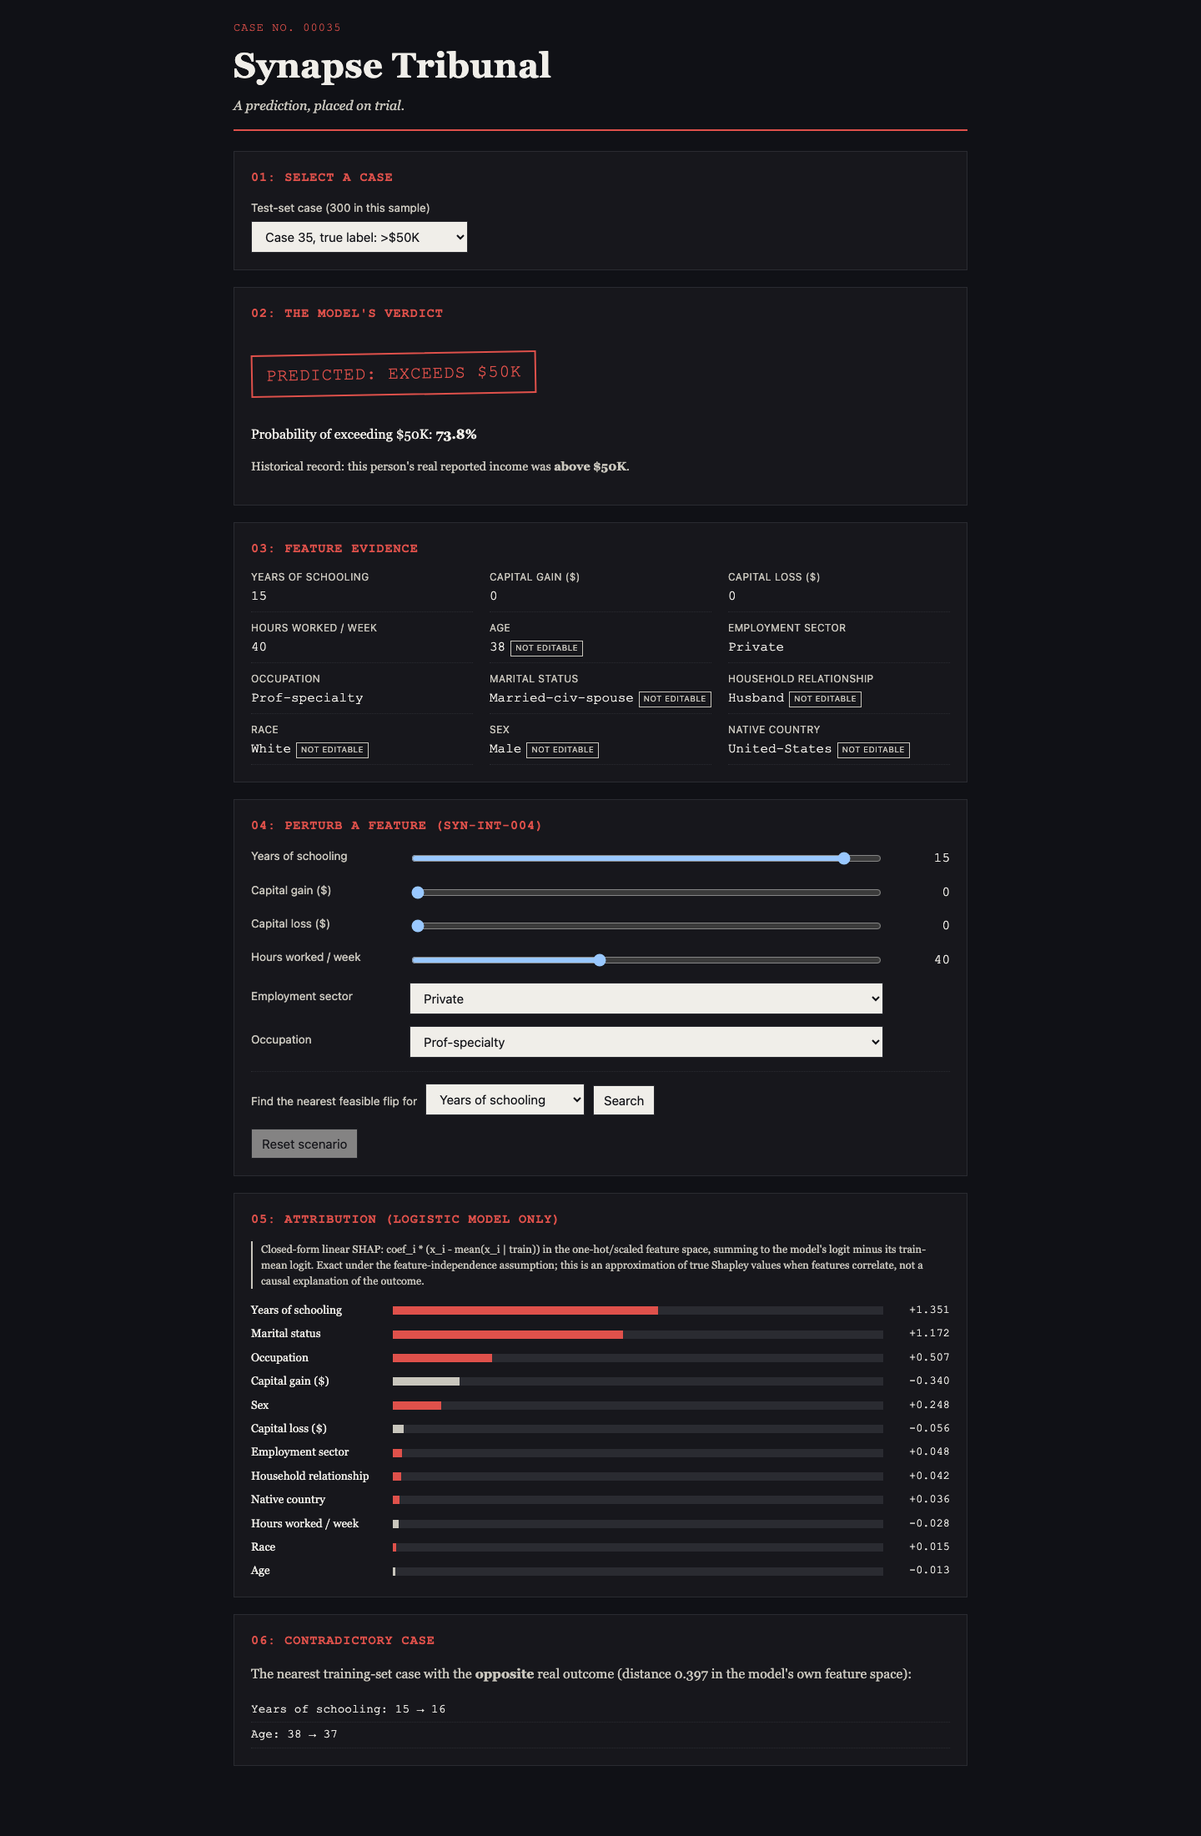
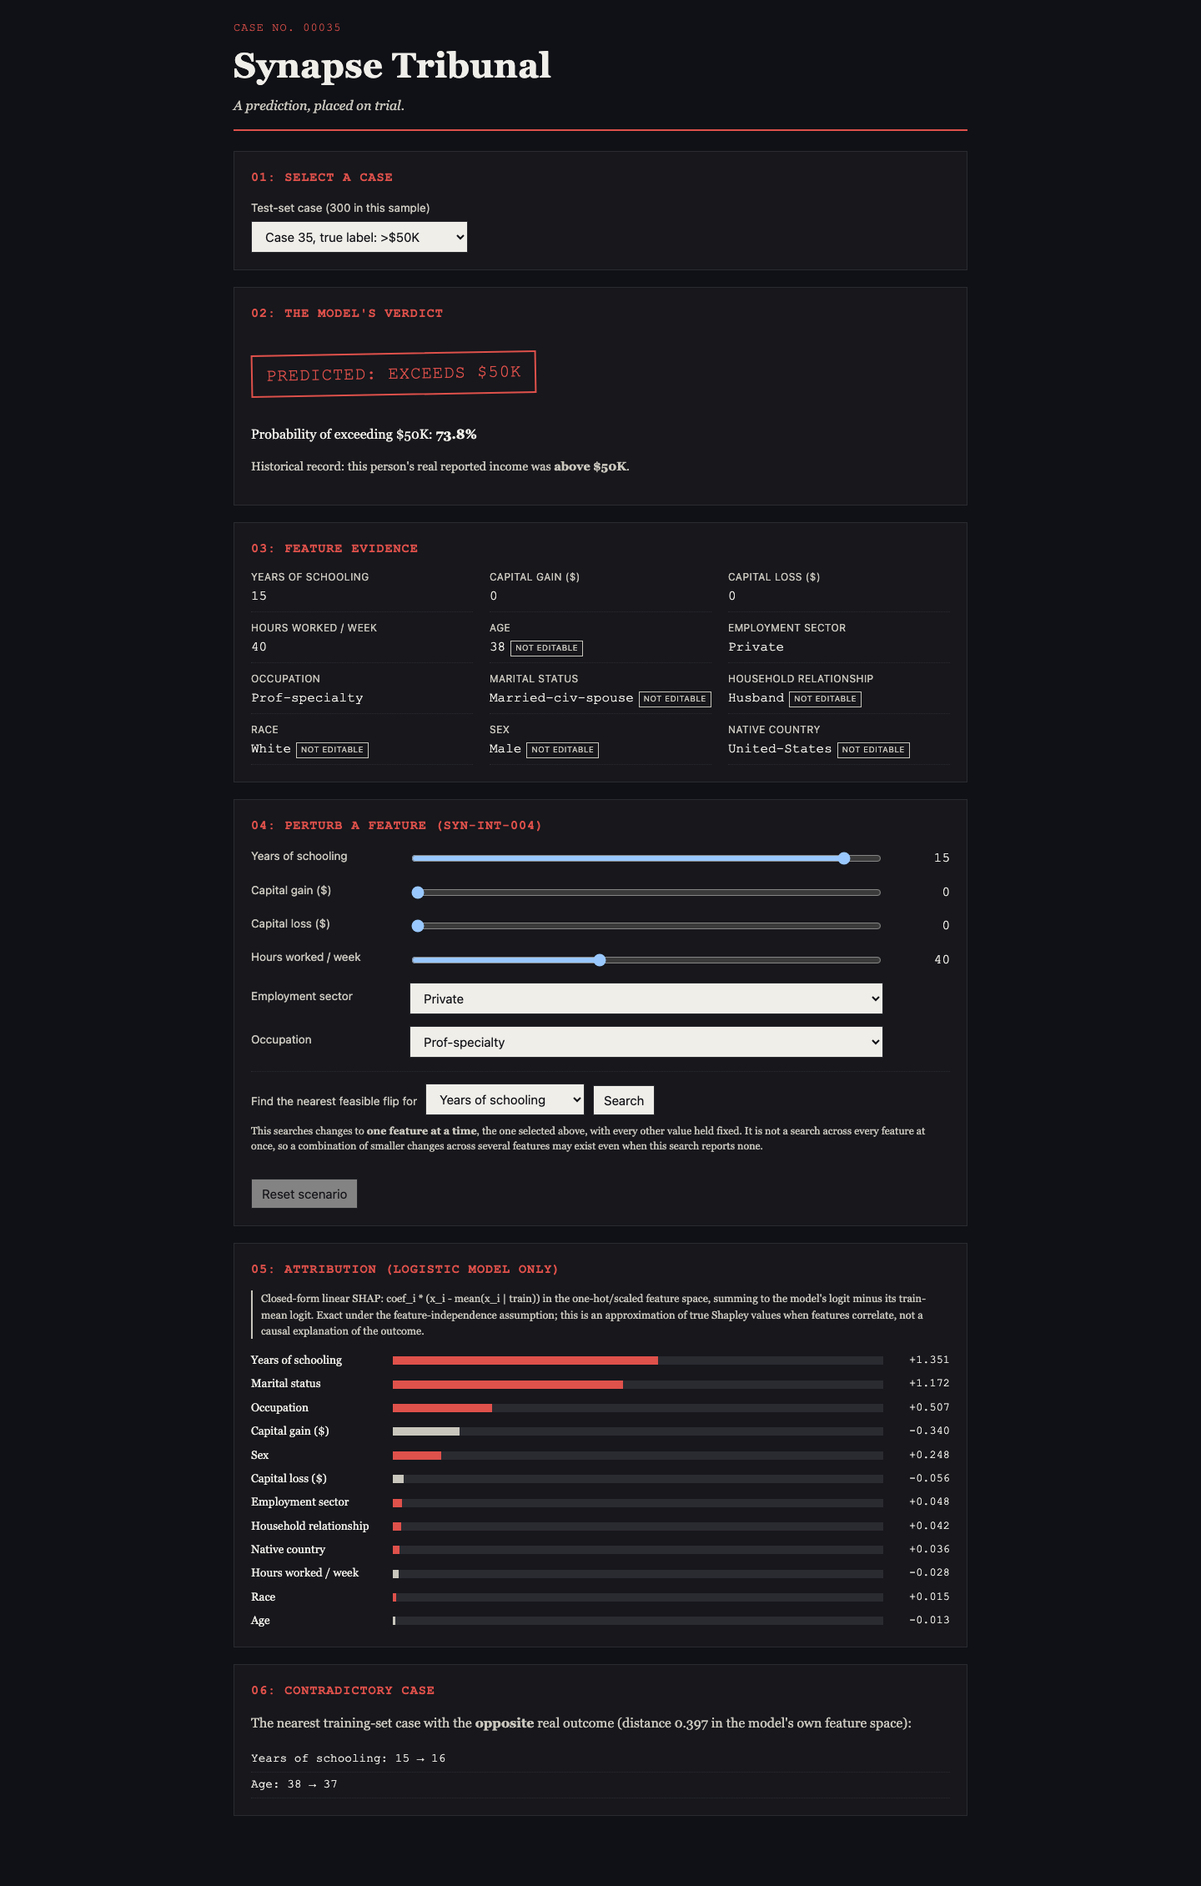
Respond to independent review: fix all P1s, cheap P2s
An independent worktree-isolated reviewer (no access to this session's
notes) found 0 P0s and 3 P1s in the vertical slice. All fixed:

- The counterfactual search's single-feature scope was only ever
  disclosed in code comments, never in the UI itself -- a user could
  read 'Feasible: changing X to Y would flip the decision' as a full
  multi-feature counterfactual. Added a visible scope note next to the
  search control and rewrote the result copy ('Changing only X... with
  every other feature held fixed') to say this inline, where it
  actually matters.
- search_categorical picked the candidate FARTHEST from the threshold
  (most decisive flip); search_numeric bisects to the value CLOSEST to
  it (minimal change). SPEC_LOCK.md describes the whole feature as
  'the minimal-change path,' so the categorical path silently
  contradicted its own spec. Fixed to match numeric's semantics in
  both research/models/counterfactual.py and src/engine/counterfactual.ts,
  with a new regression test in each (Python and TS) that brute-forces
  every candidate category independently of the implementation under
  test and asserts the minimal one is returned, not just a feasible one.
- SYN-INT-001 (select case) was fully built but marked 'unstarted' in
  REQUIREMENTS.yaml with zero test coverage -- the reviewer noted a
  future agent trusting that ledger could waste time re-verifying
  working code while the actually undertested path (case switching)
[…]

diff --git a/src/scenes/Tribunal.test.tsx b/src/scenes/Tribunal.test.tsx
@@ -59,7 +59,7 @@ describe('Tribunal scene (SYN-INT-004 vertical slice)', () => {
     })
     const result = document.querySelector('.flip-result')
     expect(result).toBeTruthy()
-    expect(result!.textContent).toMatch(/feasible|infeasible/i)
+    expect(result!.textContent).toMatch(/would flip the decision|no single-feature flip found/i)
   })
 
   it('rejects perturbing an immutable feature from the UI (none rendered for them)', async () => {
@@ -73,5 +73,31 @@ describe('Tribunal scene (SYN-INT-004 vertical slice)', () => {
     render(<Tribunal />)
     await waitFor(() => expect(screen.getByTestId('tribunal-scene')).toBeInTheDocument())
     expect(screen.getByText(/contradictory case/i)).toBeInTheDocument()
+  })
+
+  it('switching the selected case recomputes the panel and clears any active perturbation (SYN-INT-001)', async () => {
+    render(<Tribunal />)
+    await waitFor(() => expect(screen.getByTestId('tribunal-scene')).toBeInTheDocument())
+
+    const caseNumberBefore = screen.getByText(/CASE No\./i).textContent
+    const probabilityBefore = screen.getByText(/Probability of exceeding/i).textContent
+
+    const slider = screen.getByLabelText(/hours worked/i)
+    fireEvent.change(slider, { target: { value: '5' } })
+    await waitFor(() => {
+      expect(screen.getByText(/recomputed live after your edit/i)).toBeInTheDocument()
+    })
+
+    const select = screen.getByLabelText(/test-set case/i) as HTMLSelectElement
+    const otherOption = Array.from(select.options).find((o) => o.value !== select.value)!
+    fireEvent.change(select, { target: { value: otherOption.value } })
+
+    await waitFor(() => {
+      expect(screen.getByText(/CASE No\./i).textContent).not.toBe(caseNumberBefore)
+    })
+    // Switching cases must clear the perturbation from the previous case, not carry
+    // a stale "recomputed live" state into a fresh case selection.
+    expect(screen.queryByText(/recomputed live after your edit/i)).not.toBeInTheDocument()
+    expect(screen.getByText(/Probability of exceeding/i).textContent).not.toBe(probabilityBefore)
   })
 })

diff --git a/src/engine/counterfactual.test.ts b/src/engine/counterfactual.test.ts
@@ -54,6 +54,35 @@ describe('findFeasibleFlip: categorical actionable feature', () => {
       expect(manifest.categorical_categories['workclass']).toContain(result.to_value)
     }
   })
+
+  it('returns the minimal-change flip, not the most decisive one (regression test)', () => {
+    // An earlier version picked the candidate FARTHEST from the threshold instead of
+    // closest, silently diverging from SPEC_LOCK.md's "minimal-change path" claim.
+    // Brute-forces independently of findFeasibleFlip's own implementation.
+    const threshold = 0.5
+    for (const row of fixture.rows.slice(0, 40)) {
+      for (const feature of ['workclass', 'occupation']) {
+        const currentPred = logisticProba(manifest, row.raw) >= threshold
+        const flipping: { cat: string; proba: number }[] = []
+        for (const cat of manifest.categorical_categories[feature]) {
+          if (cat === row.raw[feature]) continue
+          const trial = { ...row.raw, [feature]: cat }
+          const p = logisticProba(manifest, trial)
+          if ((p >= threshold) !== currentPred) flipping.push({ cat, proba: p })
+        }
+        const result = findFeasibleFlip(manifest, row.raw, feature, threshold)
+        if (flipping.length === 0) {
+          expect(result.feasible).toBe(false)
+          continue
+        }
+        const expectedBest = flipping.reduce((a, b) =>
+          Math.abs(a.proba - threshold) <= Math.abs(b.proba - threshold) ? a : b,
+        )
+        expect(result.feasible).toBe(true)
+        if (result.feasible) expect(result.to_value).toBe(expectedBest.cat)
+      }
+    }
+  })
 })
 
 describe('findFeasibleFlip: immutable feature rejection', () => {

diff --git a/src/scenes/Tribunal.tsx b/src/scenes/Tribunal.tsx
@@ -280,19 +280,26 @@ export default function Tribunal() {
             Search
           </button>
         </div>
+        <p className="flip-scope-note">
+          This searches changes to <strong>one feature at a time</strong>, the one selected above,
+          with every other value held fixed. It is not a search across every feature at once, so a
+          combination of smaller changes across several features may exist even when this search
+          reports none.
+        </p>
         {flipResult && (
           <p className="flip-result" role="status">
             {flipResult.feasible ? (
               <>
-                Feasible: changing {featureLabel(flipResult.feature)} to{' '}
-                <strong>{formatValue(flipResult.to_value)}</strong> would flip the decision (resulting
-                probability {formatProbability(flipResult.resulting_proba)}).{' '}
+                Changing only {featureLabel(flipResult.feature)} to{' '}
+                <strong>{formatValue(flipResult.to_value)}</strong>, with every other feature held
+                fixed, would flip the decision (resulting probability{' '}
+                {formatProbability(flipResult.resulting_proba)}).{' '}
                 <button type="button" onClick={handleApplyFlip}>
                   Apply this flip
                 </button>
               </>
             ) : (
-              <>Infeasible: {flipResult.reason}</>
+              <>No single-feature flip found: {flipResult.reason}</>
             )}
           </p>
         )}

diff --git a/e2e/tribunal.spec.ts b/e2e/tribunal.spec.ts
@@ -54,6 +54,19 @@ test("vertical slice: case browser, perturbation, attribution, flip, reset", asy
   await page.screenshot({ path: path.join(SCREENSHOTS_DIR, "tribunal-desktop.png"), fullPage: true });
 });
 
+test("switching the selected case (SYN-INT-001) recomputes and clears perturbation", async ({ page }) => {
+  await page.goto("/");
+  await expect(page.getByTestId("tribunal-scene")).toBeVisible();
+
+  const caseNumberBefore = await page.locator(".dossier-case-number").textContent();
+  const select = page.getByLabel(/test-set case/i);
+  const options = await select.locator("option").all();
+  const otherValue = await options[1].getAttribute("value");
+  await select.selectOption(otherValue!);
+
+  await expect(page.locator(".dossier-case-number")).not.toHaveText(caseNumberBefore ?? "");
+});
+
 test("keyboard operability: perturb and search without a mouse", async ({ page }) => {
   await page.goto("/");
   await expect(page.getByTestId("tribunal-scene")).toBeVisible();

diff --git a/src/engine/counterfactual.ts b/src/engine/counterfactual.ts
@@ -102,8 +102,11 @@ function searchCategorical(
       reason: 'no observed category for this feature flips the decision',
     }
   }
+  // Minimal change: the candidate CLOSEST to the threshold, matching searchNumeric's
+  // bisection-to-the-boundary semantics (an earlier version picked the farthest/most-
+  // decisive candidate, silently diverging from SPEC_LOCK.md's "minimal-change path").
   const best = candidates.reduce((a, b) =>
-    Math.abs(a.resulting_proba - threshold) >= Math.abs(b.resulting_proba - threshold) ? a : b,
+    Math.abs(a.resulting_proba - threshold) <= Math.abs(b.resulting_proba - threshold) ? a : b,
   )
   return {
     feasible: true,

diff --git a/src/engine/useFixtures.ts b/src/engine/useFixtures.ts
@@ -23,6 +23,11 @@ export function useFixtures(): FixturesState & { retry: () => void } {
 
   useEffect(() => {
     let cancelled = false
+    // This IS synchronizing with an external system (fetch), the canonical case the
+    // rule's own message carves out as fine. Suppressed rather than worked around so
+    // future fixture-loading hooks aren't tempted to copy an awkward workaround instead
+    // of this same legitimate pattern.
+    // oxlint-disable-next-line react/set-state-in-effect
     setState({ status: 'loading' })
     const base = import.meta.env.BASE_URL
     Promise.all([

diff --git a/src/scenes/Tribunal.css b/src/scenes/Tribunal.css
@@ -198,6 +198,11 @@ input:focus-visible {
   border-top: 1px dotted var(--ink-line);
   padding-top: 14px;
 }
+.flip-scope-note {
+  font-size: 0.78rem;
+  color: var(--paper-dim);
+  margin-top: 10px;
+}
 .flip-result {
   margin-top: 12px;
   padding: 10px;

diff --git a/tests/unit/test_reference.py b/tests/unit/test_reference.py
@@ -98,6 +98,37 @@ def test_counterfactual_categorical_infeasible_reports_reason_not_crash():
         assert "reason" in result
 
 
+def test_counterfactual_categorical_returns_minimal_not_most_decisive_flip():
+    """Regression test for a real bug an independent review caught: the categorical
+    search once picked the candidate FARTHEST from the threshold (the most decisive
+    flip) instead of the closest (the minimal change), silently diverging from
+    SPEC_LOCK.md's own 'minimal-change path' description. Brute-forces every observed
+    category independently of find_feasible_flip's own implementation."""
+    for row in SAMPLE_FIXTURE["rows"][:40]:
+        raw = row["raw"]
+        for feature in ("workclass", "occupation"):
+            threshold = 0.5
+            current_pred = logistic_proba(raw) >= threshold
+            flipping = []
+            for cat in MANIFEST["categorical_categories"][feature]:
+                if cat == raw[feature]:
+                    continue
+                trial = {**raw, feature: cat}
+                p = logistic_proba(trial)
+                if (p >= threshold) != current_pred:
+                    flipping.append((cat, p))
+            result = find_feasible_flip(raw, feature, threshold=threshold)
+            if not flipping:
+                assert not result["feasible"]
+                continue
+            expected_best = min(flipping, key=lambda cp: abs(cp[1] - threshold))
+            assert result["feasible"]
+            assert result["to_value"] == expected_best[0], (
+                f"{feature}: expected minimal-change category {expected_best[0]!r}, "
+                f"got {result['to_value']!r}"
+            )
+
+
 def test_scaler_mean_is_train_only_not_full_dataset():
     """Leakage guard: the manifest's StandardScaler mean must equal the TRAIN split's own
     mean, not a mean computed over train+test (which would leak test distribution info

diff --git a/research/models/train.py b/research/models/train.py
@@ -19,7 +19,6 @@ from pathlib import Path
 
 import numpy as np
 import pandas as pd
-from sklearn.calibration import calibration_curve
 from sklearn.compose import ColumnTransformer
 from sklearn.ensemble import HistGradientBoostingClassifier
 from sklearn.neighbors import NearestNeighbors
@@ -160,8 +159,11 @@ def main() -> None:
     }
 
     # Calibration cohorts (SYN-INT-005): real bins over the real test set, both models.
+    # Hand-rolled rather than sklearn's calibration_curve because the UI needs each bin's
+    # raw n/mean/observed_rate (not just the curve points calibration_curve returns), and
+    # calibration_curve silently drops empty bins -- the UI needs to render those as "no
+    # test cases fell in this probability range" (INTERACTIONS.yaml) rather than skip them.
     def calib(proba: np.ndarray) -> list[dict]:
-        frac_pos, mean_pred = calibration_curve(y_test, proba, n_bins=10, strategy="uniform")
         out = []
         edges = np.linspace(0, 1, 11)
         for i in range(10):

diff --git a/research/models/counterfactual.py b/research/models/counterfactual.py
@@ -78,7 +78,12 @@ def search_categorical(raw: dict, feature: str, threshold: float) -> dict:
     if not candidates:
         return {"feasible": False, "feature": feature, "reason":
                 "no observed category for this feature flips the decision"}
-    best = max(candidates, key=lambda c: abs(c["resulting_proba"] - threshold))
+    # Minimal change: the candidate whose resulting probability is CLOSEST to the
+    # threshold (just barely flips it), matching search_numeric's bisection-to-the-
+    # boundary semantics. An earlier version picked the farthest/most-decisive
+    # candidate instead, silently diverging from SPEC_LOCK.md's "minimal-change path"
+    # description; fixed, not just relabeled.
+    best = min(candidates, key=lambda c: abs(c["resulting_proba"] - threshold))
     return {"feasible": True, "feature": feature, "from_value": current,
             "to_value": best["category"], "resulting_proba": best["resulting_proba"]}
 

diff --git a/docs/LIMITATIONS.md b/docs/LIMITATIONS.md
@@ -1,0 +1,52 @@
+# Limitations
+
+Honest, current-state record of what this build does not do, referenced from code comments
+(`src/engine/counterfactual.ts`) and specs (`specifications/INTERACTIONS.yaml`) rather than left
+as a dangling citation. Updated as the build progresses; this is not a final release document
+(see `verification/` once SYN-RELEASE-001 closes for that).
+
+## Analytical
+
+- **Counterfactual search is single-feature only.** `findFeasibleFlip` varies exactly one
+  actionable feature, holding every other value fixed, and reports "no feasible flip" if that
+  one feature alone cannot cross the threshold within its observed range/categories. A real
+  multi-feature nearest-counterfactual (the combination of several smaller changes) may exist
+  even when the single-feature search finds none. This scope is stated in the UI itself
+  (`.flip-scope-note` in the Tribunal scene), not only in code comments.
+- **No live evaluator for the boosting model.** `HistGradientBoostingClassifier`'s tree
+  internals are not public sklearn API the way logistic regression's coefficients are, so no
+  TypeScript port exists for it. Perturbation (SYN-INT-004) is only ever evaluated against the
+  logistic model; switching models clears any active perturbation rather than showing a stale
+  or fabricated boosting-model result.
+- **Attribution is linear-SHAP, exact only under feature independence.** `attribution_method`
+  in `model_manifest.json` states this; correlated features (e.g. education and occupation)
+  make it an approximation, not an exact Shapley decomposition, in that case.
+- **22% of the test set exactly duplicates a train row** once the `fnlwgt` sampling-weight
+  column is dropped (see `model_manifest.json.leakage_check`). Reported test AUROC/Brier are
+  somewhat optimistic for that subset. Adult's AUROC is well-established at 0.90-0.93 in the
+  literature independent of this specific split, so the effect is judged unlikely to be large;
+  a grouped train/test split that removes the duplicates is the honest fix and is recorded here
+  as future work, not applied.
+- **1994 US Census data.** Income thresholds and occupational categories reflect that period's
+  economy, not current ones.
+
+## Interface (current build: vertical slice only)
+
+- Only SYN-INT-001 (select case) and SYN-INT-004 (perturb + single-feature flip search) are
+  implemented. SYN-INT-002/003/005/006 do not exist yet.
+- Only one scene exists (the flagship "Tribunal" interaction); none of the six narrative
+  chapters or the cinematic intro are built yet.
+- **Mobile is a single-column reflow of the desktop layout**, not yet the deliberately distinct
+  touch-first composition the Atlas stack guidance calls for (bottom-sheet controls, reframed
+  camera/spatial treatment). Functional and legible, verified by real screenshot, but not yet a
+  separately art-directed mobile composition. Scoped to the full responsive-design pass.
+- No cross-browser testing yet (Chromium only via Playwright's default project).
+
+## Process
+
+- No automated `release:check` auditor or `execution/tasks.json` ledger exists yet (the V2
+  directive's full machine-readable controller). `specifications/REQUIREMENTS.yaml` is
+  maintained by hand; an independent review already caught one row (SYN-INT-001) that was
+  incorrectly marked `unstarted` despite being implemented, so treat this file's status as
+  indicative, not infallible, until the full suite closes and a release auditor exists to check
+  it mechanically.

diff --git a/README.md b/README.md
@@ -1,32 +1,42 @@
-# React + TypeScript + Vite
+# Synapse Tribunal
 
-This template provides a minimal setup to get React working in Vite with HMR and some Oxlint rules.
+A prediction, placed on trial: real classifier attribution, counterfactual search, and
+contradictory-case evidence, computed live in the browser against a model trained offline.
 
-Currently, two official plugins are available:
+Project 03 of the Creative Engineering Atlas. See `specifications/SPEC_LOCK.md` for the
+authoritative spec decisions, `specifications/REQUIREMENTS.yaml` for current build status, and
+`docs/LIMITATIONS.md` for what this build does and does not do right now.
 
-- [@vitejs/plugin-react](https://github.com/vitejs/vite-plugin-react/blob/main/packages/plugin-react) uses [Oxc](https://oxc.rs)
-- [@vitejs/plugin-react-swc](https://github.com/vitejs/vite-plugin-react/blob/main/packages/plugin-react-swc) uses [SWC](https://swc.rs/)
+**Current state:** one feature slice built and independently reviewed (SYN-INT-001 select case,
+SYN-INT-004 perturb + single-feature counterfactual search). The remaining four interactions,
+six narrative chapters, and cinematic intro are not yet built.
 
-## React Compiler
+## Run it
 
-The React Compiler is not enabled on this template because of its impact on dev & build performances. To add it, see [this documentation](https://react.dev/learn/react-compiler/installation).
-
-## Expanding the Oxlint configuration
-
-If you are developing a production application, we recommend enabling type-aware lint rules by installing `oxlint-tsgolint` and editing `.oxlintrc.json`:
-
-```json
-{
-  "$schema": "./node_modules/oxlint/configuration_schema.json",
-  "plugins": ["react", "typescript", "oxc"],
-  "options": {
-    "typeAware": true
-  },
-  "rules": {
-    "react/rules-of-hooks": "error",
-    "react/only-export-components": ["warn", { "allowConstantExport": true }]
-  }
-}
+```bash
+npm install
+npm run dev          # local dev server
+npm run build        # tsc -b && vite build
+npm run preview       # serve the production build locally
+npm run test          # vitest
+npm run test:e2e      # playwright, against the production build
 ```
 
-See the [Oxlint rules documentation](https://oxc.rs/docs/guide/usage/linter/rules) for the full list of rules and categories.
+The analytical engine (dataset fetch, model training, fixture export) is Python, in a separate
+venv:
+
+```bash
+python3 -m venv .venv
+.venv/bin/pip install -r requirements.txt
+export SSL_CERT_FILE=$(.venv/bin/python -c "import certifi; print(certifi.where())")
+.venv/bin/python -I research/ingest/fetch_adult.py   # fetches data/raw/adult_raw.csv
+.venv/bin/python -I research/models/train.py          # trains both models, exports fixtures
+.venv/bin/python -I -m pytest tests/unit -q            # reference-engine test suite
+```
+
+## Stack
+
+React + TypeScript + Vite, GSAP for motion, scikit-learn for the offline reference models, a
+manifest-driven TypeScript port of the logistic model for live in-browser recomputation
+(`src/engine/`), Playwright + Vitest + pytest for testing. See `docs/ARCHITECTURE.md` once it
+exists (not yet written at this stage of the build).
